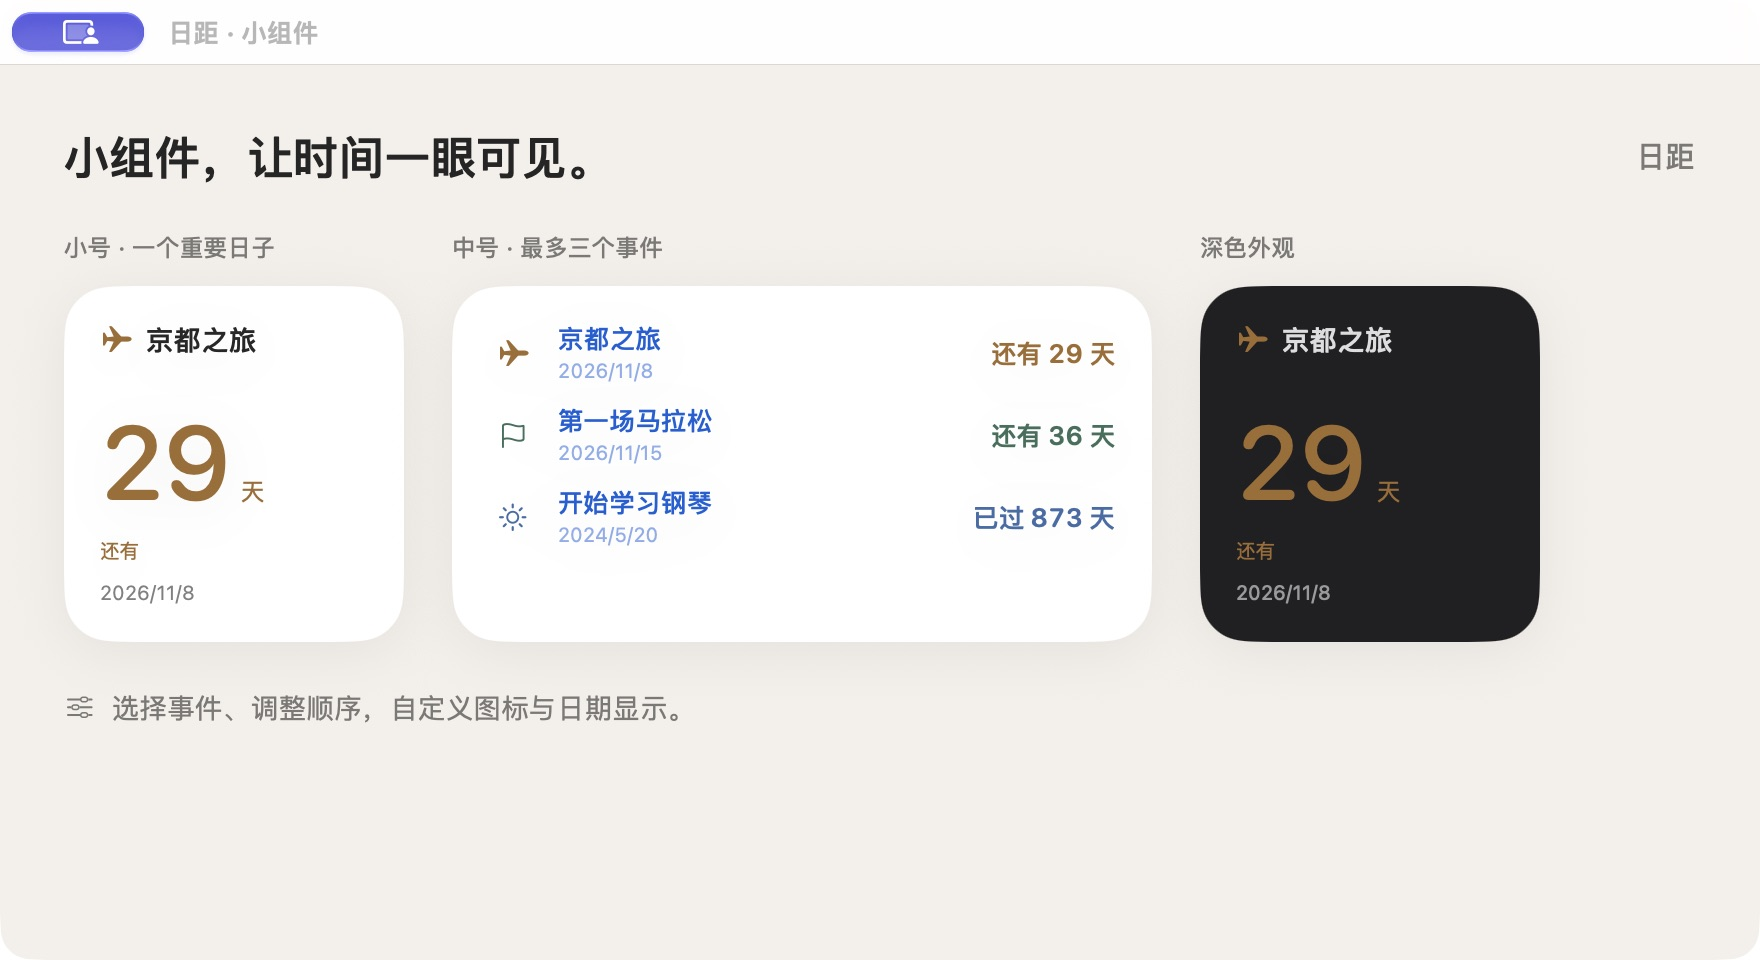
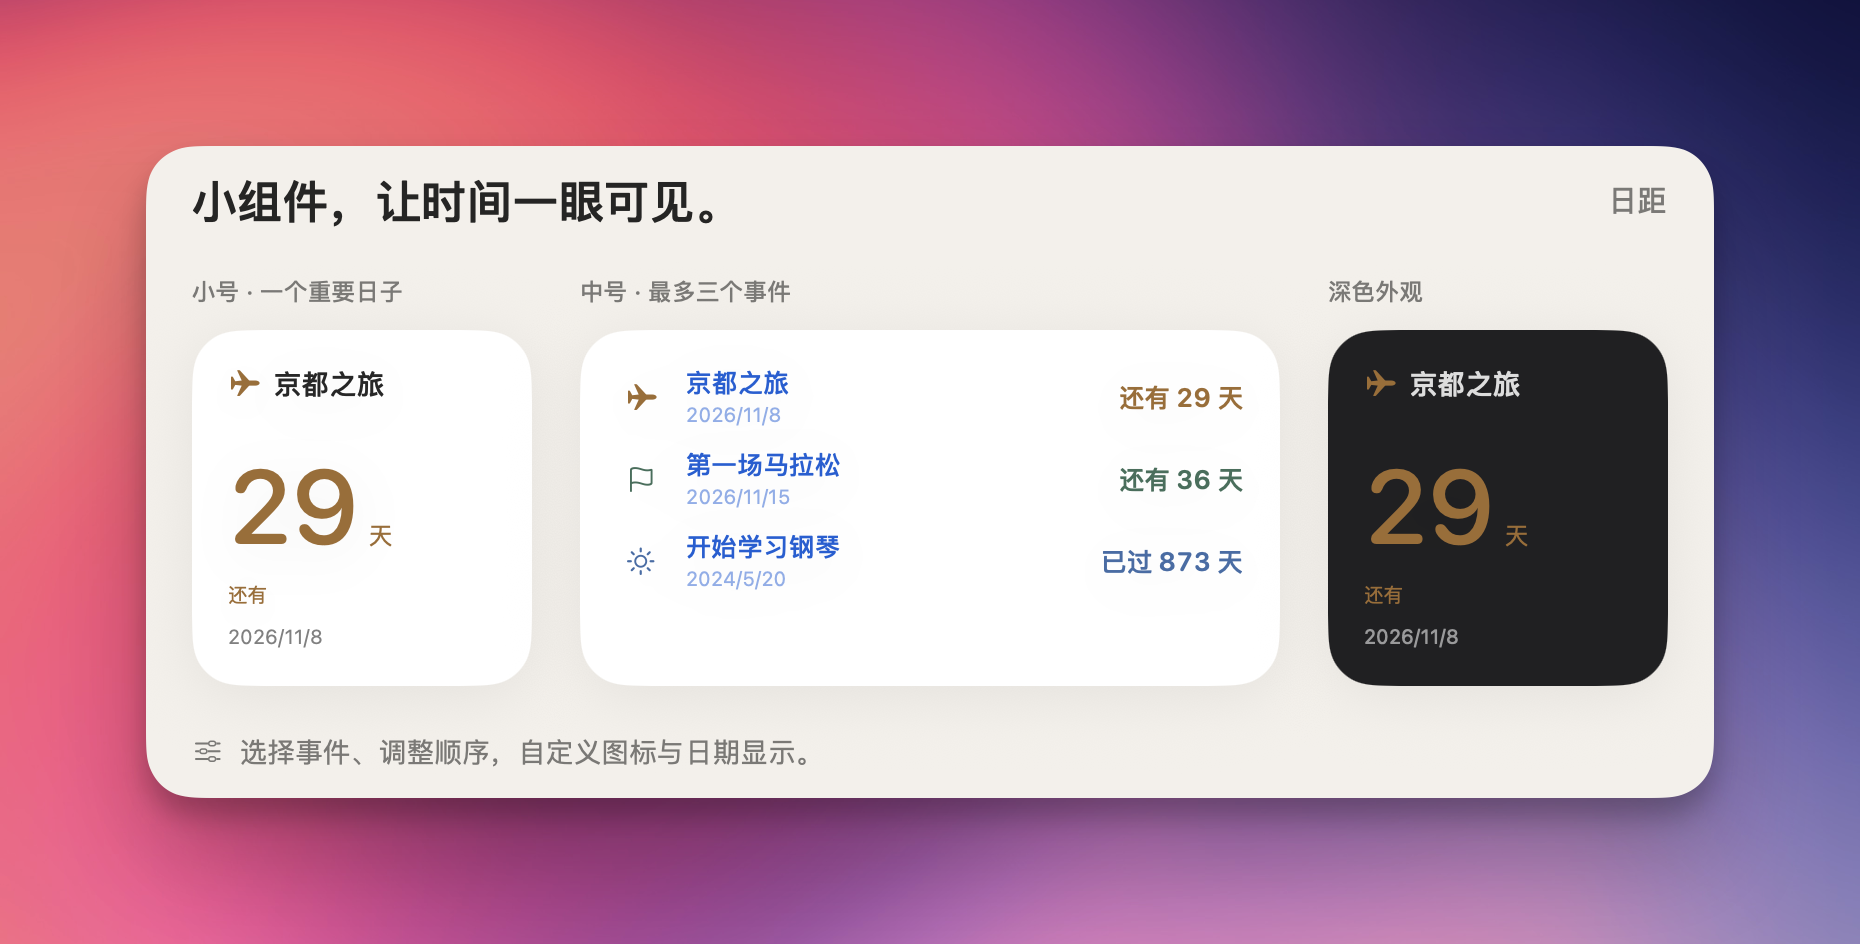
docs(readme): refresh bilingual widget showcase screenshots

diff --git a/script/widget_showcase.py b/script/widget_showcase.py
@@ -1,13 +1,18 @@
 #!/usr/bin/env python3
 """Render real widget views in a disposable, unindexed app; no event storage."""
+import argparse
 import os
 from pathlib import Path
 import plistlib
+import shutil
 import subprocess
 import tempfile
 
 
 def main():
+    parser = argparse.ArgumentParser()
+    parser.add_argument('--language', choices=['zh-Hans', 'en'], default='zh-Hans')
+    args = parser.parse_args()
     project = Path(__file__).resolve().parent.parent
     env = os.environ.copy()
     env.setdefault("DEVELOPER_DIR", "/Applications/Xcode.app/Contents/Developer")
@@ -19,15 +24,37 @@ def main():
         app = Path(temporary) / "WidgetShowcase.app"
         macos = app / "Contents/MacOS"
         macos.mkdir(parents=True)
+        resources = app / "Contents/Resources"
+        shutil.copytree(project / "Shared/Core/Resources", resources)
+        if args.language == 'en':
+            fixture = project / "Tests/Fixtures/WidgetShowcase.swift"
+            source = fixture.read_text()
+            for chinese, english in {
+                '日距 · 小组件': 'DayDistance · Widgets',
+                '小组件，让时间一眼可见。': 'Time at a glance.',
+                '日距': 'DayDistance',
+                '小号 · 一个重要日子': 'Small · One important day',
+                '中号 · 最多三个事件': 'Medium · Up to three events',
+                '深色外观': 'Dark appearance',
+                '选择事件、调整顺序，自定义图标与日期显示。': 'Choose events, reorder them, and customize icons and dates.',
+                '京都之旅': 'Kyoto Trip',
+                '第一场马拉松': 'My First Marathon',
+                '开始学习钢琴': 'Learning Piano',
+            }.items():
+                source = source.replace(f'"{chinese}"', f'"{english}"')
+            english_fixture = Path(temporary) / 'WidgetShowcase.swift'
+            english_fixture.write_text(source)
+            sources = [english_fixture if path == fixture else path for path in sources]
         (app / "Contents/Info.plist").write_bytes(plistlib.dumps({
-            "CFBundleIdentifier": "local.daydistance.widgetshowcase.qa", "CFBundleName": "WidgetShowcase",
+            "CFBundleIdentifier": "local.daydistance.widgetshowcase.qa." + Path(temporary).name.replace('.noindex', ''), "CFBundleName": "WidgetShowcase",
             "CFBundleExecutable": "WidgetShowcase", "CFBundlePackageType": "APPL",
-            "CFBundleDevelopmentRegion": "zh-Hans", "NSPrincipalClass": "NSApplication"}))
+            "CFBundleDevelopmentRegion": "zh-Hans", "CFBundleLocalizations": ["en", "zh-Hans"], "NSPrincipalClass": "NSApplication"}))
         binary = macos / "WidgetShowcase"
         subprocess.run(["xcrun", "swiftc", "-parse-as-library", "-target", "arm64-apple-macos14.0",
                         *map(str, sources), "-o", str(binary)], env=env, check=True, timeout=90)
         print(f"Temporary widget UI: {app}", flush=True)
-        process = subprocess.Popen([str(binary)])
+        process = subprocess.Popen([str(binary), '-AppleLanguages', f'({args.language})',
+                                    '-AppleLocale', 'en_US' if args.language == 'en' else 'zh_CN'])
         try:
             process.wait()
         finally:

diff --git a/docs/VISUALS.md b/docs/VISUALS.md
@@ -6,7 +6,8 @@
 - `events-en.png`：同一演示界面的英文版，事件名称、界面文字和日期格式均为英文；用户于 2026-10-10 自行截图。
 - `editor.png`：生产EventEditor编辑表单，截图后取消草稿。
 - `reminders.png`：生产EventEditor重复提醒展开，假通知客户端，不发送真实通知，截图后取消。
-- `widgets.png`：生产DayWidgetContent在原生演示窗口展示小号、中号与深色外观，固定2026-10-10示例日期；**不是系统桌面截图或实际WidgetKit集成验收**。
+- `widgets.png`：生产 DayWidgetContent 在原生演示窗口展示小号、中号与深色外观，固定 2026-10-10 示例日期；用户自行截图，保留原图背景与构图。**不是系统桌面小组件摆放截图或实际 WidgetKit 集成验收**。
+- `widgets-en.png`：同一小组件演示的英文版，用户自行截图；事件名称、日期格式和天数文案均为英文。
 - `icon.png`：应用当前亮色Dock图标。
 
-重现主页面示例窗口：`python3 script/public_ui_probe.py --capture-ready --language zh-Hans`（英文版用 `--language en`）；日期与天数按运行时的本地时间显示。其他表单示例：`python3 script/public_ui_probe.py --showcase --language zh-Hans`；小组件展示：`python3 script/widget_showcase.py`。两者退出时删除临时数据与App登记，不覆盖安装版。主页面截图由用户提供，其余窗口截图使用原生 computer use 获取；README 没有用效果图冒充真实界面。
+重现主页面示例窗口：`python3 script/public_ui_probe.py --capture-ready --language zh-Hans`（英文版用 `--language en`）；日期与天数按运行时的本地时间显示。其他表单示例：`python3 script/public_ui_probe.py --showcase --language zh-Hans`；小组件展示：`python3 script/widget_showcase.py --language zh-Hans`（英文版用 `--language en`）。两者退出时删除临时数据与App登记，不覆盖安装版。主页面与小组件展示截图由用户提供，编辑与提醒表单截图使用原生 computer use 获取；README 没有用效果图冒充真实界面。

diff --git a/docs/README.en.md b/docs/README.en.md
@@ -33,7 +33,7 @@ Before upgrading, export your events, save/cancel current editing, and quit the 
 
 ## Widgets
 
-![Production widget views in a native showcase](images/widgets.png)
+![English small, medium, and dark widget views in a native showcase](images/widgets-en.png)
 
 This image uses production SwiftUI widget content with fictional events in a native showcase window. It is not a desktop placement screenshot or an integration-test claim.
 
